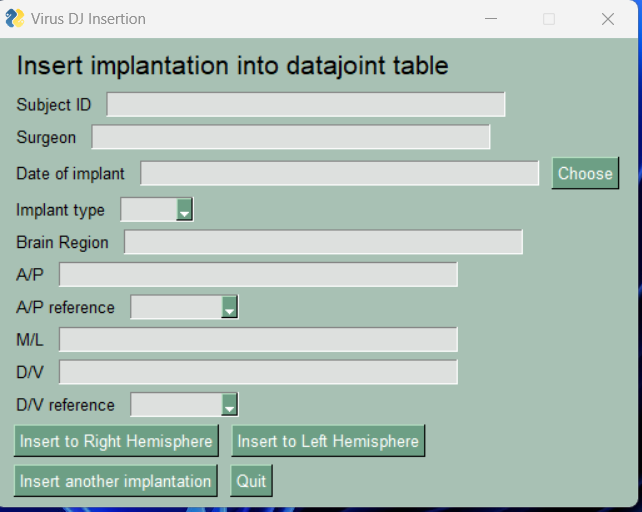
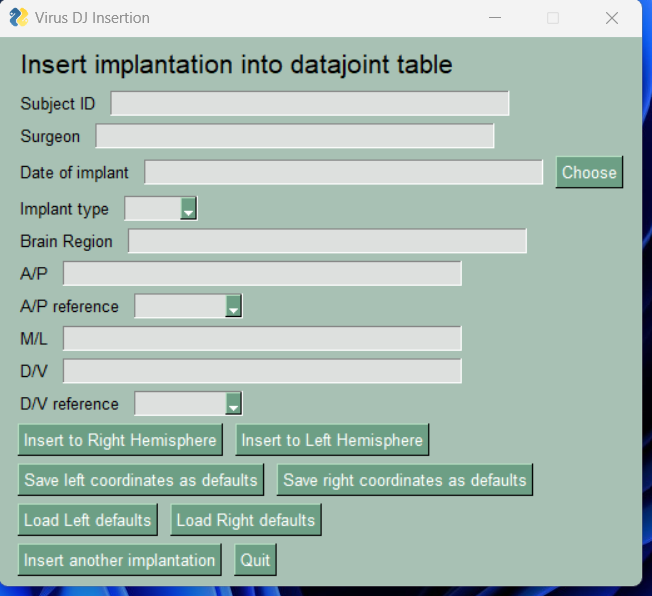
adding saving/load functions

diff --git a/TOML-metafile-scripts/Insert_implantation.py b/TOML-metafile-scripts/Insert_implantation.py
@@ -3,6 +3,7 @@
 from __future__ import annotations
 
 import PySimpleGUI as sg
+import json
 import datajoint as dj
 
 import os
@@ -31,6 +32,10 @@ def clear_fields():
     window[7].update('')
     window[8].update('')
 
+def save_defaults(data, filename):
+    with open(filename, 'w') as f:
+        json.dump(data, f)
+
 
 sg.theme("LightGreen3")
 
@@ -47,6 +52,8 @@ layout = [[[sg.Text("Insert implantation into datajoint table", font=("Helvetica
         [sg.Text("D/V reference"), sg.InputCombo(["skull_surface", "dura"], size=(10, 1))],
 
         [sg.Button("Insert to Right Hemisphere"), sg.Button("Insert to Left Hemisphere")],
+        [sg.Button("Save left coordinates as defaults"), sg.Button("Save right coordinates as defaults")],
+        [sg.Button("Load Left defaults"), sg.Button("Load Right defaults")],
         [sg.Button("Insert another implantation"), sg.Button("Quit")]]
 
 window = sg.Window("Virus DJ Insertion", layout)
@@ -133,6 +140,75 @@ while True:
 
         reference.Implantation.insert1(implantation_list, skip_duplicates=True)
         print('Left implantation inserted into Implantation table')
+
+    if event == "Save right coordinates as defaults":
+        brain_region = values[3]
+        ap = values[4]
+        ap_ref = values[5]
+        ml = values[6]
+        dv = values[7]
+        dv_ref = values[8]
+        ml_ref = 'sagittal_suture'
+        right_implantation_list = dict(surgeon = surgeon,
+                                    brain_region = brain_region,
+                                    hemisphere = 'right',
+                                    ap = ap,
+                                    ap_ref = ap_ref,
+                                    ml = ml,
+                                    ml_ref = ml_ref,
+                                    dv = dv,
+                                    dv_ref = dv_ref)
+        filename = sg.popup_get_file("Save right corrdinates", save_as=True, file_types=(("coordinates", "*.json"),))
+        if filename:
+            save_defaults(right_implantation_list, filename)
+            sg.popup("Right defaults saved successfully!")
+    if event == "Save left coordinates as defaults":
+        surgeon = values[1]
+        brain_region = values[3]
+        ap = values[4]
+        ap_ref = values[5]
+        ml = values[6]
+        dv = values[7]
+        dv_ref = values[8]
+        ml_ref = 'sagittal_suture'
+        left_implantation_list = dict(surgeon = surgeon,
+                                    brain_region = brain_region,
+                                    hemisphere = 'left',
+                                    ap = ap,
+                                    ap_ref = ap_ref,
+                                    ml = ml,
+                                    ml_ref = ml_ref,
+                                    dv = dv,
+                                    dv_ref = dv_ref)
+        filename = sg.popup_get_file("Save left corrdinates", save_as=True, file_types=(("coordinates", "*.json"),))
+        if filename:
+            save_defaults(left_implantation_list, filename)
+            sg.popup("Left defaults saved successfully!")
+
+    if event == "Load Left defaults":
+        leftDefaults = sg.popup_get_file("Load left corrdinates")
+        with open(leftDefaults, 'r') as f:
+            implantation_list = json.load(f)
+        window[1].update(implantation_list['surgeon'])
+        window[3].update(implantation_list['brain_region'])
+        window[4].update(implantation_list['ap'])
+        window[5].update(implantation_list['ap_ref'])
+        window[6].update(implantation_list['ml'])
+        window[7].update(implantation_list['dv'])
+        window[8].update(implantation_list['dv_ref'])
+
+    if event == "Load Right defaults":
+        rightDefaults = sg.popup_get_file("Load right corrdinates")
+        with open(rightDefaults, 'r') as f:
+            implantation_list = json.load(f)
+        window[1].update(implantation_list['surgeon'])
+        window[3].update(implantation_list['brain_region'])
+        window[4].update(implantation_list['ap'])
+        window[5].update(implantation_list['ap_ref'])
+        window[6].update(implantation_list['ml'])
+        window[7].update(implantation_list['dv'])
+        window[8].update(implantation_list['dv_ref'])        
+
 
     elif event == "Insert another implantation":
         clear_fields()

diff --git a/TOML-metafile-scripts/Insert_virus.py b/TOML-metafile-scripts/Insert_virus.py
@@ -3,6 +3,7 @@
 from __future__ import annotations
 
 import PySimpleGUI as sg
+import json
 import datajoint as dj
 
 import os
@@ -34,6 +35,10 @@ def clear_fields():
     window[9].update('')
     window[10].update('')
 
+def save_defaults(data, filename):
+    with open(filename, 'w') as f:
+        json.dump(data, f)
+
 sg.theme("LightGreen1")
 
 layout = [[[sg.Text("Insert viral injection into datajoint tables", font=("Helvetica", 16))]],
@@ -50,7 +55,9 @@ layout = [[[sg.Text("Insert viral injection into datajoint tables", font=("Helve
         [sg.Text("D/V reference"), sg.InputCombo(["skull_surface", "dura"], size=(10, 1))],
         [sg.Text("Notes"), sg.InputText()],
 
-        [sg.Button("Insert to Right Hemisphere"), sg.Button("Insert to Left Hemisphere")],
+        [sg.Button("Insert to Left Hemisphere"), sg.Button("Insert to Right Hemisphere")],
+        [sg.Button("Save left coordinates as defaults"), sg.Button("Save right coordinates as defaults")],
+        [sg.Button("Load Left defaults"), sg.Button("Load Right defaults")],
         [sg.Button("Insert another viral injection"), sg.Button("Quit")]]
 
 window = sg.Window("Virus DJ Insertion", layout)
@@ -146,6 +153,63 @@ while True:
 
         reference.VirusInjection.Coordinate.insert1(coordinates_list, skip_duplicates=True)
         print("Inserted to left hemisphere")
+    
+    if event == "Save left coordinates as defaults":
+        left_data = {
+            'experimenter': values[1],
+            'brain_region': values[4],
+            'ap': values[5],
+            'ap_ref': values[6],
+            'ml': values[7],
+            'dv': values[8],
+            'dv_ref': values[9],
+        }
+        filename = sg.popup_get_file('Save left defaults as...', save_as=True, file_types=(("coordinates", "*.json"),))
+
+        if filename:
+            save_defaults(left_data, filename)
+            sg.popup("Saved left coordinates as defaults")
+    
+    if event == "Save right coordinates as defaults":
+        right_data = {
+            'experimenter': values[1],
+            'brain_region': values[4],
+            'ap': values[5],
+            'ap_ref': values[6],
+            'ml': values[7],
+            'dv': values[8],
+            'dv_ref': values[9],
+        }
+        filename = sg.popup_get_file('Save right defaults as...', save_as=True, file_types=(("coordinates", "*.json"),))
+
+        if filename:
+            save_defaults(right_data, filename)
+            sg.popup("Saved right coordinates as defaults")
+    
+    if event == "Load Left defaults":
+        leftDefaults = sg.popup_get_file('Load left corrdinates')
+        with open(leftDefaults, 'r') as f:
+            left_data = json.load(f)
+        window[1].update(left_data['experimenter'])
+        window[4].update(left_data['brain_region'])
+        window[5].update(left_data['ap'])
+        window[6].update(left_data['ap_ref'])
+        window[7].update(left_data['ml'])
+        window[8].update(left_data['dv'])
+        window[9].update(left_data['dv_ref'])
+    
+    if event == "Load Right defaults":
+        rightDefaults = sg.popup_get_file('Load right corrdinates')
+        with open(rightDefaults, 'r') as f:
+            right_data = json.load(f)
+        window[1].update(right_data['experimenter'])
+        window[4].update(right_data['brain_region'])
+        window[5].update(right_data['ap'])
+        window[6].update(right_data['ap_ref'])
+        window[7].update(right_data['ml'])
+        window[8].update(right_data['dv'])
+        window[9].update(right_data['dv_ref'])
+
 
     elif event == "Insert another viral injection":
         clear_fields() 

diff --git a/docs/source/How To.rst b/docs/source/How To.rst
@@ -165,6 +165,9 @@ If successful, you will see ``Inserted to Right Hemisphere`` or ``Inserted to Le
 If you need to insert more than one surgery, click ``Insert another viral injection`` and repeat the process. Once finished, you can close the GUI
 by selecting ``Quit``.
 
+You can also save/load defaults for your experiment by selecting ``Save Defaults`` and ``Load Defaults``. This will save your coordinates for 
+repeated use. 
+
 
 The implant reference table
 ----------------------------
@@ -185,6 +188,9 @@ If successful, you will see ``Right Implantation inserted into Implantation tabl
 
 If you need to insert more than one surgery, click ``Insert another implant`` and repeat the process. Once finished, you can close the GUI
 by selecting ``Quit``.
+
+You can also save/load defaults for your experiment by selecting ``Save Defaults`` and ``Load Defaults``. This will save your coordinates for 
+repeated use. 
 
 
 Photometry and PhotometrySync pipeline
